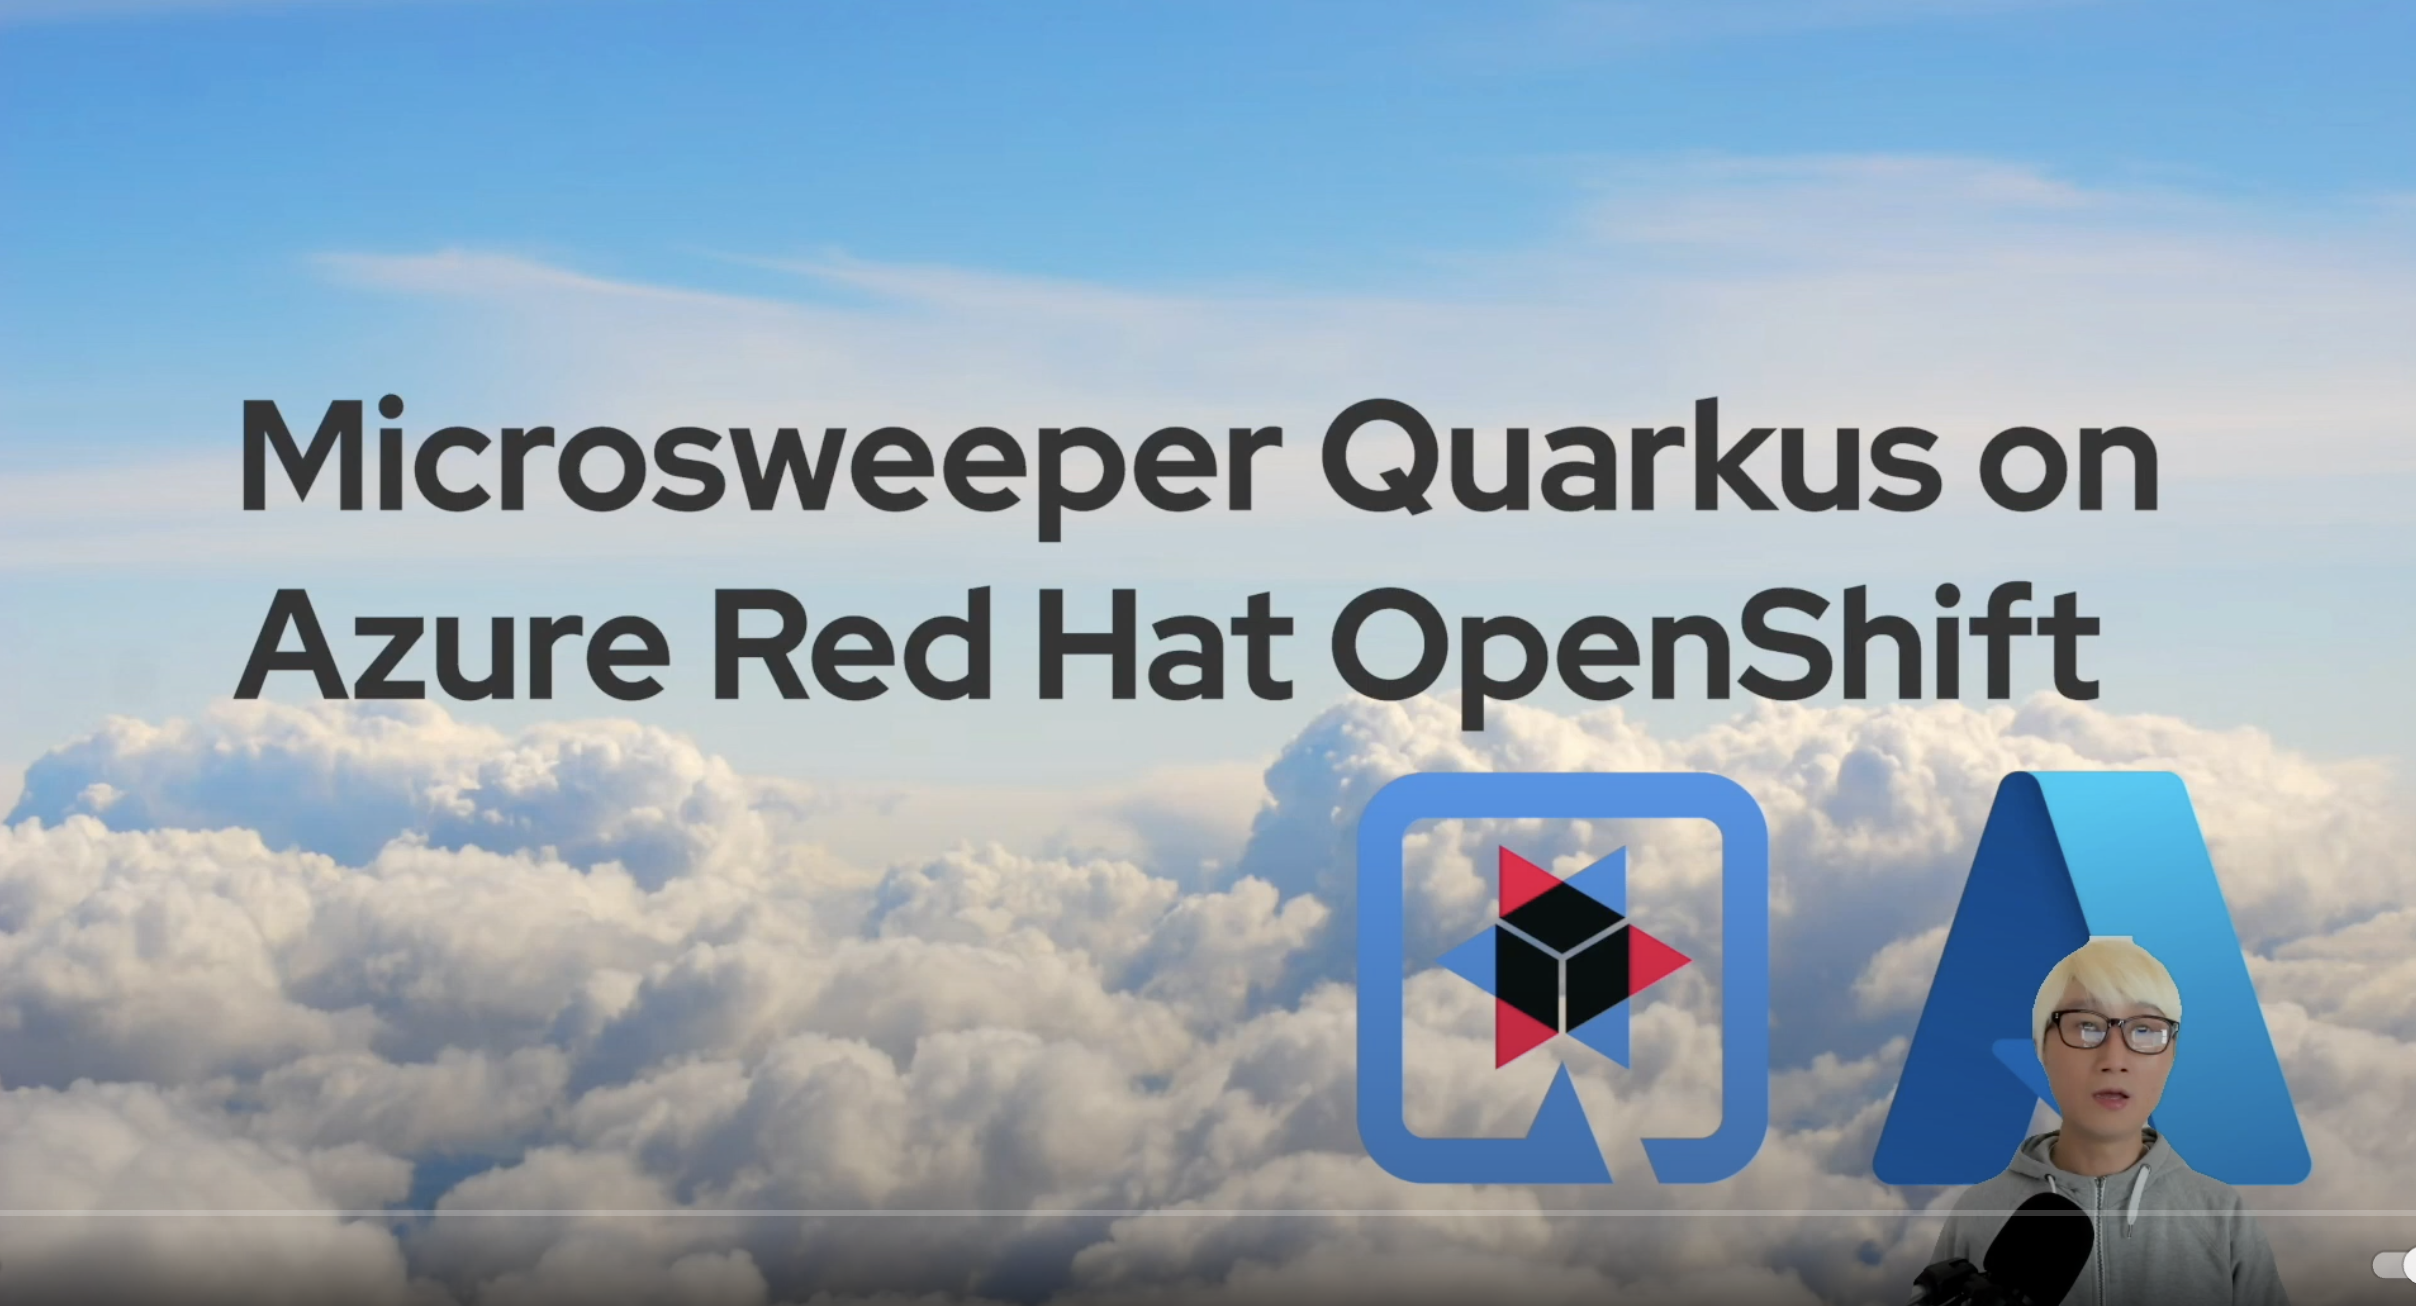
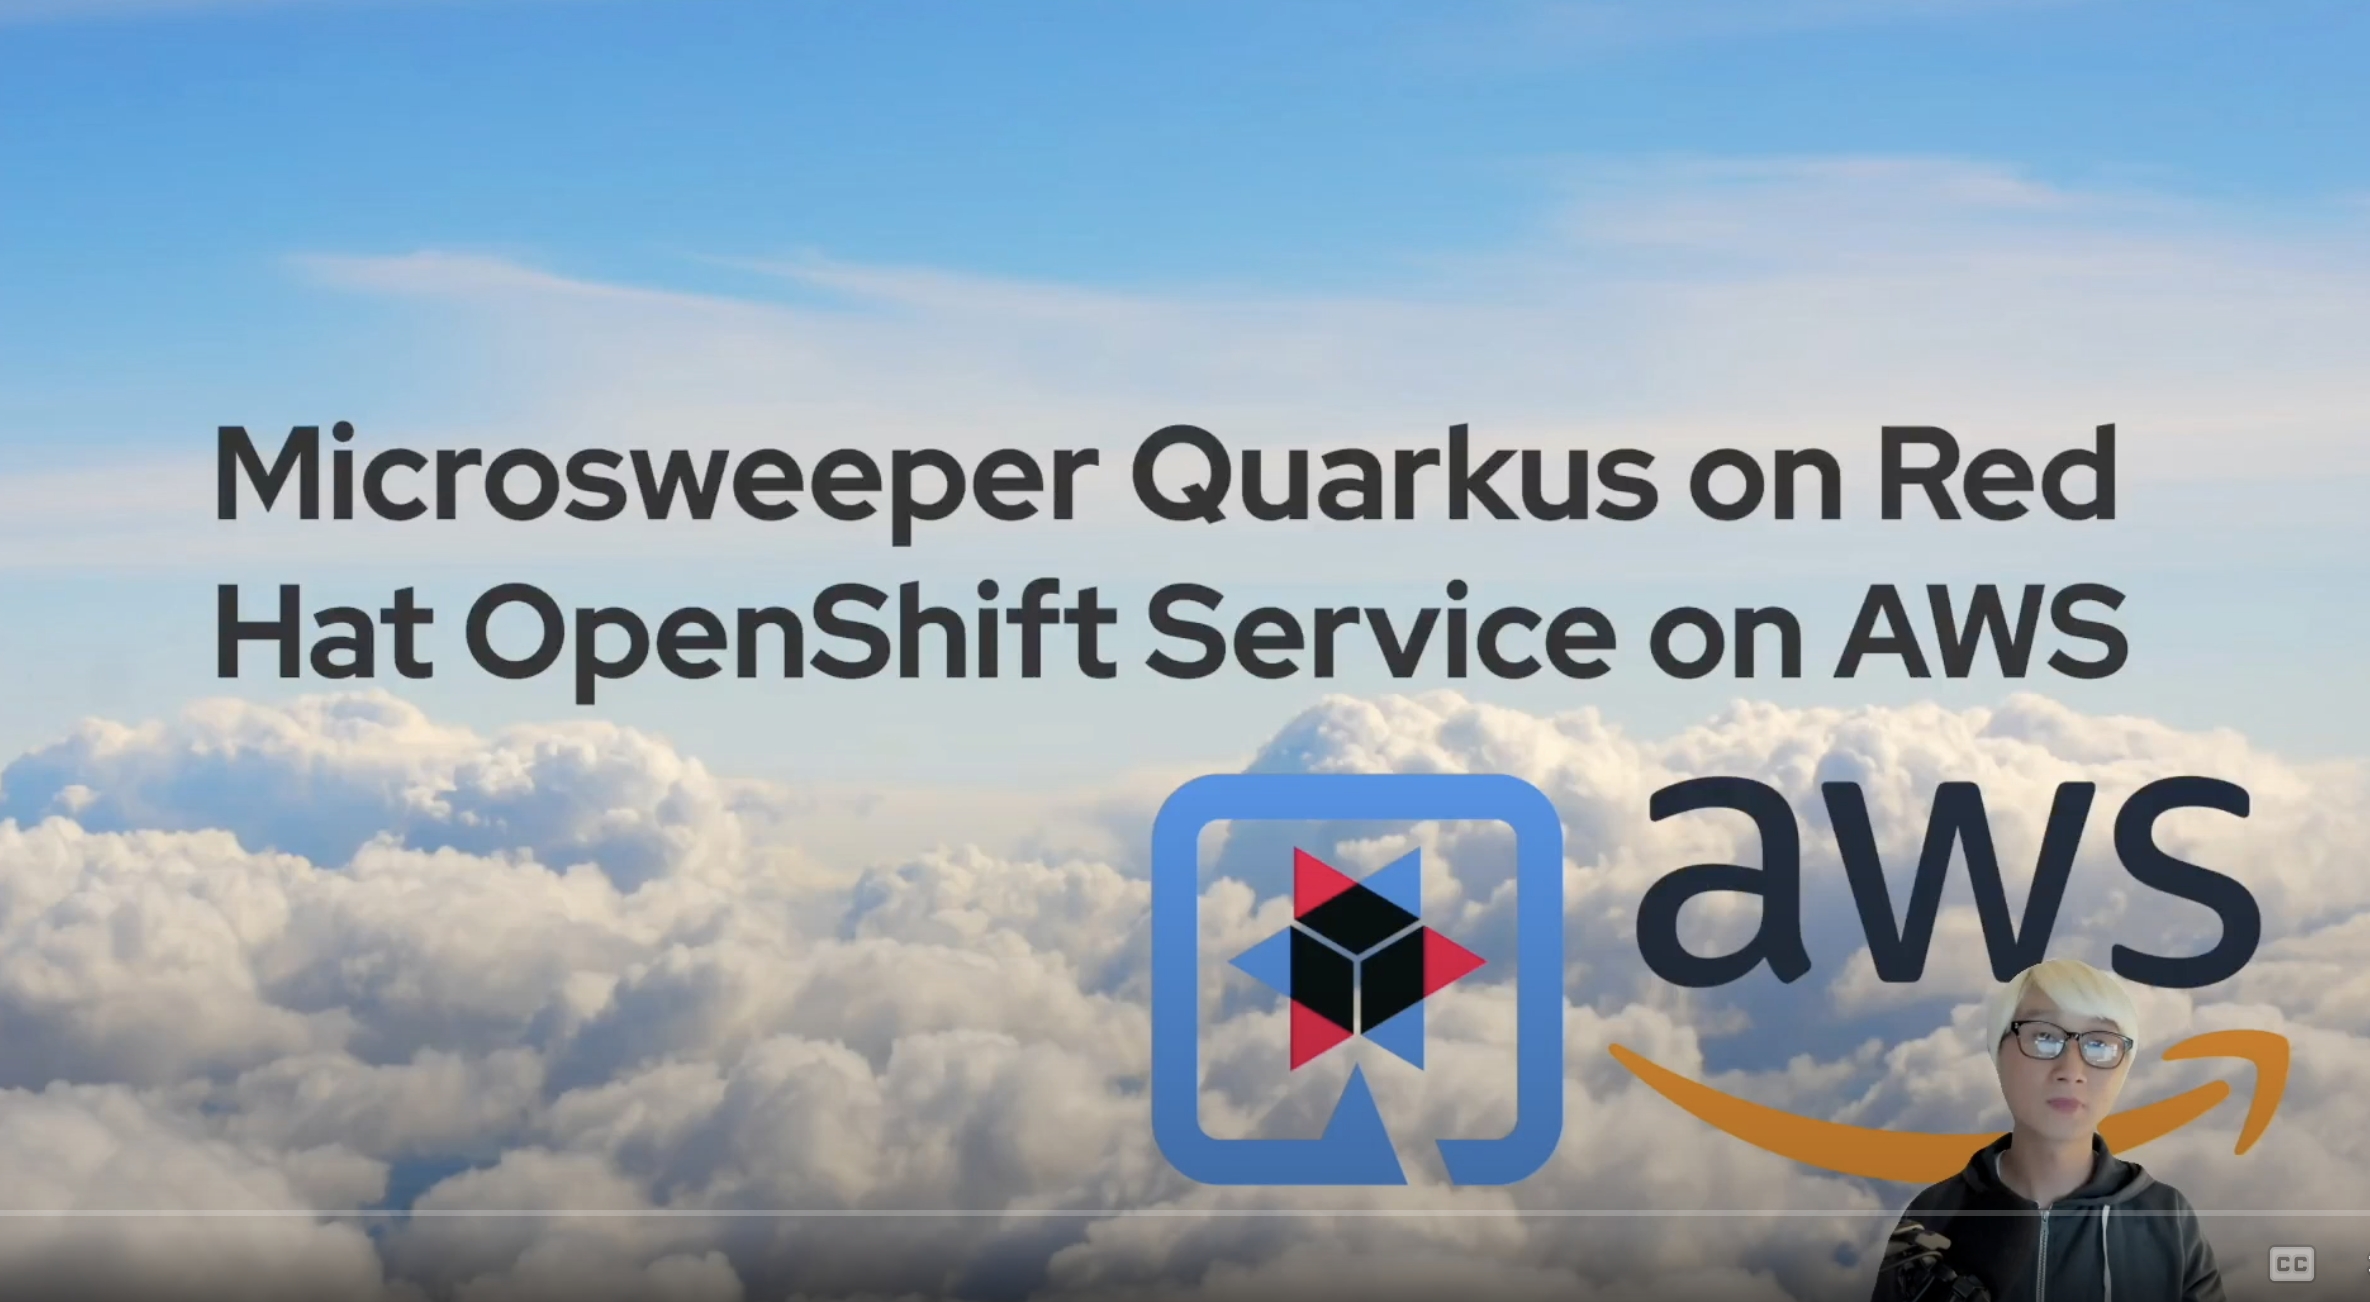
Update the section 3

diff --git a/src/main/resources/META-INF/resources/index.html b/src/main/resources/META-INF/resources/index.html
@@ -4,7 +4,7 @@
     <meta charset="UTF-8">
     <meta name="viewport" content="width=device-width, initial-scale=1.0">
     <meta http-equiv="X-UA-Compatible" content="ie=edge">
-    <title>Minesweeper</title>
+    <title>Microsweeper</title>
     <link rel="stylesheet" href="css/main.css">
     <script
             src="https://code.jquery.com/jquery-3.2.1.min.js"

diff --git a/README.md b/README.md
@@ -4,7 +4,7 @@ This demo uses a number of cloud technologies to implement a simple game from th
 
 Watch the demo video that walks you through the instructions step by step:
 
-[![Microsweeper Demo with Quarkus on Red Hat OpenShift Service on AWS](https://github.com/redhat-mw-demos/microsweeper-quarkus/blob/ROSA/docs/thumbnail.png)](https://youtu.be/zYSQdX-tVsE "Microsweeper Demo with Quarkus on  Red Hat OpenShift Service on AWS")
+[![Microsweeper Demo with Quarkus on Red Hat OpenShift Service on AWS](https://github.com/redhat-mw-demos/microsweeper-quarkus/blob/ROSA/docs/thumbnail.png)](https://youtu.be/UBDzHnDjc_g "Microsweeper Demo with Quarkus on  Red Hat OpenShift Service on AWS")
 
 # Table of Contents
 
@@ -444,6 +444,20 @@ In the same file, **uncomment** the `encrypt(score);` in the _addScore(Score sco
     public void addScore(Score score) throws Exception {
         scoreboardService.addScore(score);
         encrypt(score);
+    }
+```
+
+Take a look at the **encrypt** method to understand how Quarkus enables you to send emails to verified recipients through AWS SES. _(Don't copy the following code!_)
+
+```java
+    public void encrypt(Score score) {
+        logger.info("New receiver: " + score.getName());
+        ses.sendEmail(req -> req
+            .source(EMAIL_FROM_ADDRESS)
+            .destination(d -> d.toAddresses(EMAIL_TO_ADDRESS))
+            .message(msg -> msg
+                .subject(sub -> sub.data("[" + score.getName() + "] You've got a new score in Microsweeper!"))
+                .body(b -> b.text(txt -> txt.data("Congrats!!! " + score.getName() + " is just completed the Microsweeper with " + score.getLevel()))))).messageId();
     }
 ```
 
